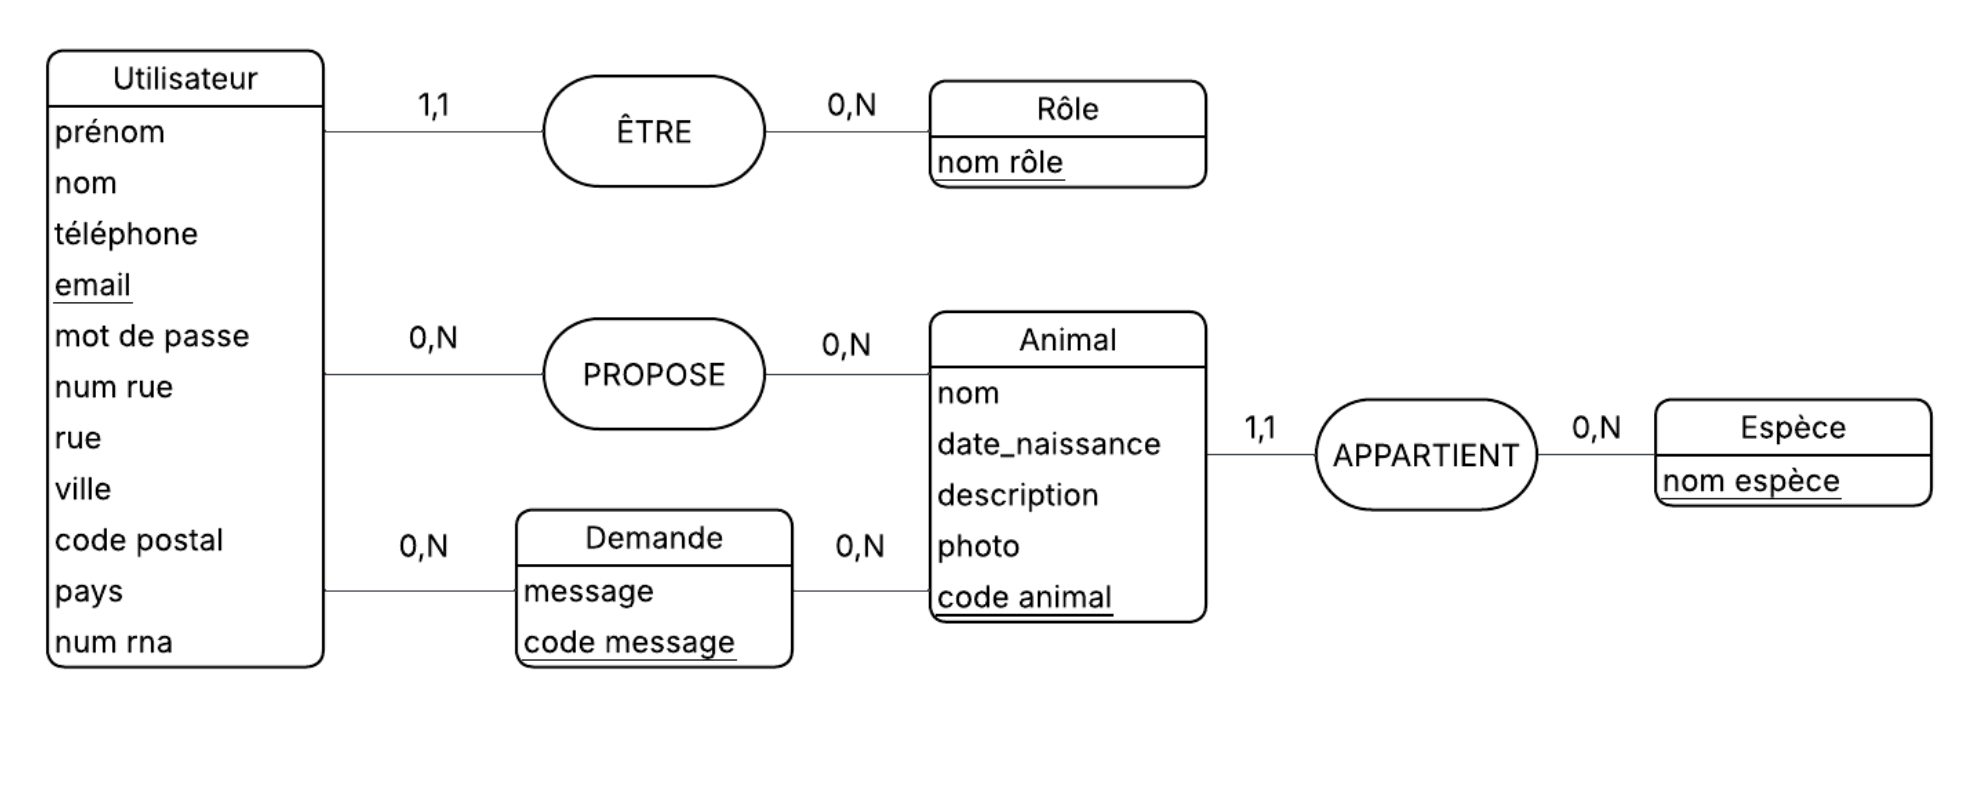
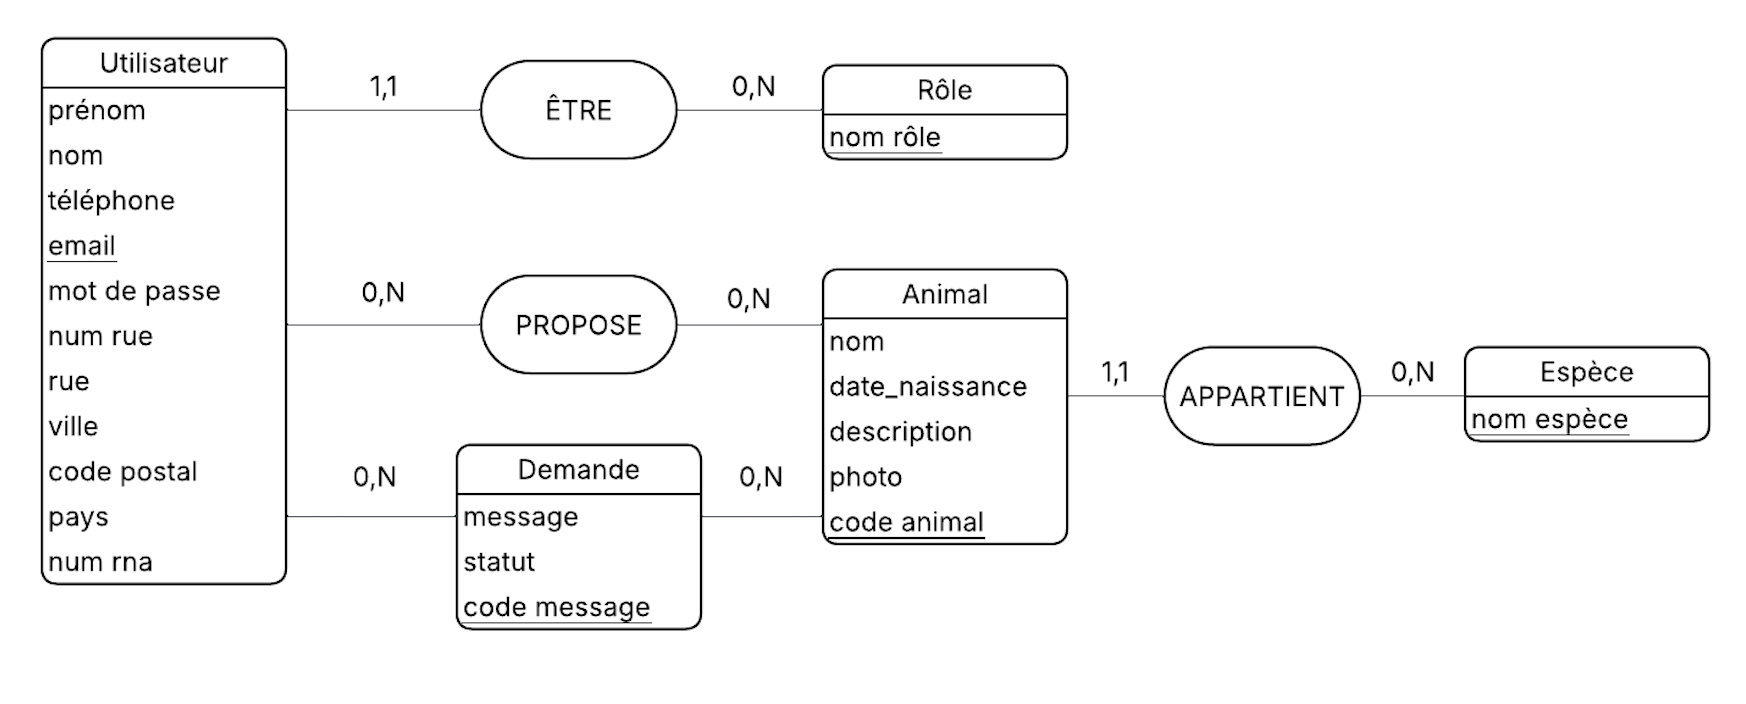
updated database files

diff --git a/backend/src/data/mpd.md b/backend/src/data/mpd.md
@@ -46,6 +46,7 @@ APPLICATION (
   user_id INT NOT NULL REFERENCES UTILISATEUR(id),
   animal_id INT NOT NULL REFERENCES ANIMAL(id),
   message TEXT NOT NULL,
+  status VARCHAR(50) NOT NULL,
   created_at TIMESTAMP NOT NULL DEFAULT CURRENT_TIMESTAMP,
   updated_at TIMESTAMP NOT NULL DEFAULT CURRENT_TIMESTAMP,
   PRIMARY KEY (user_id, animal_id)
